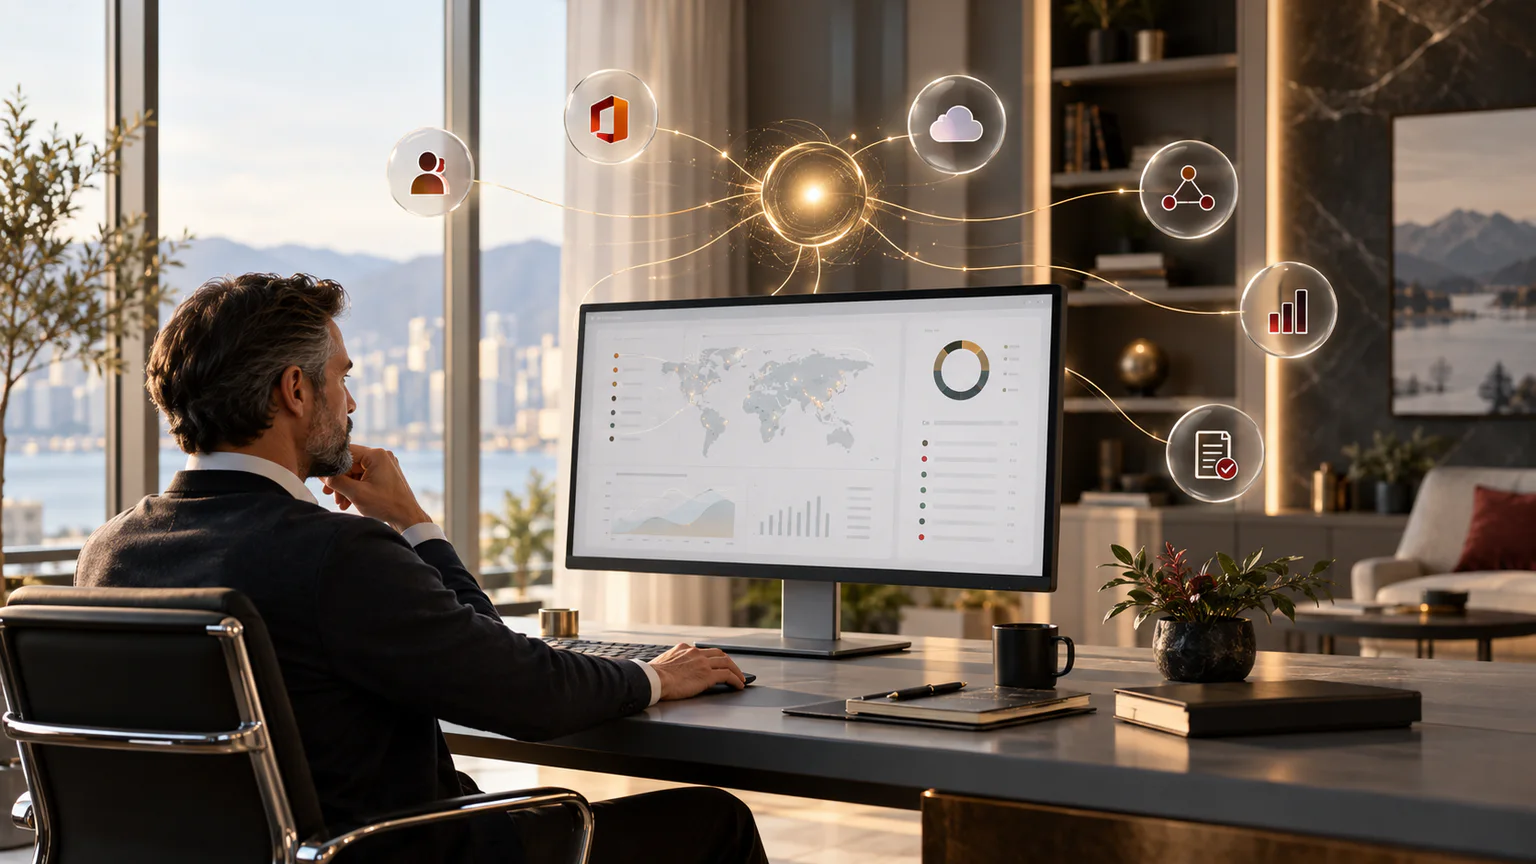
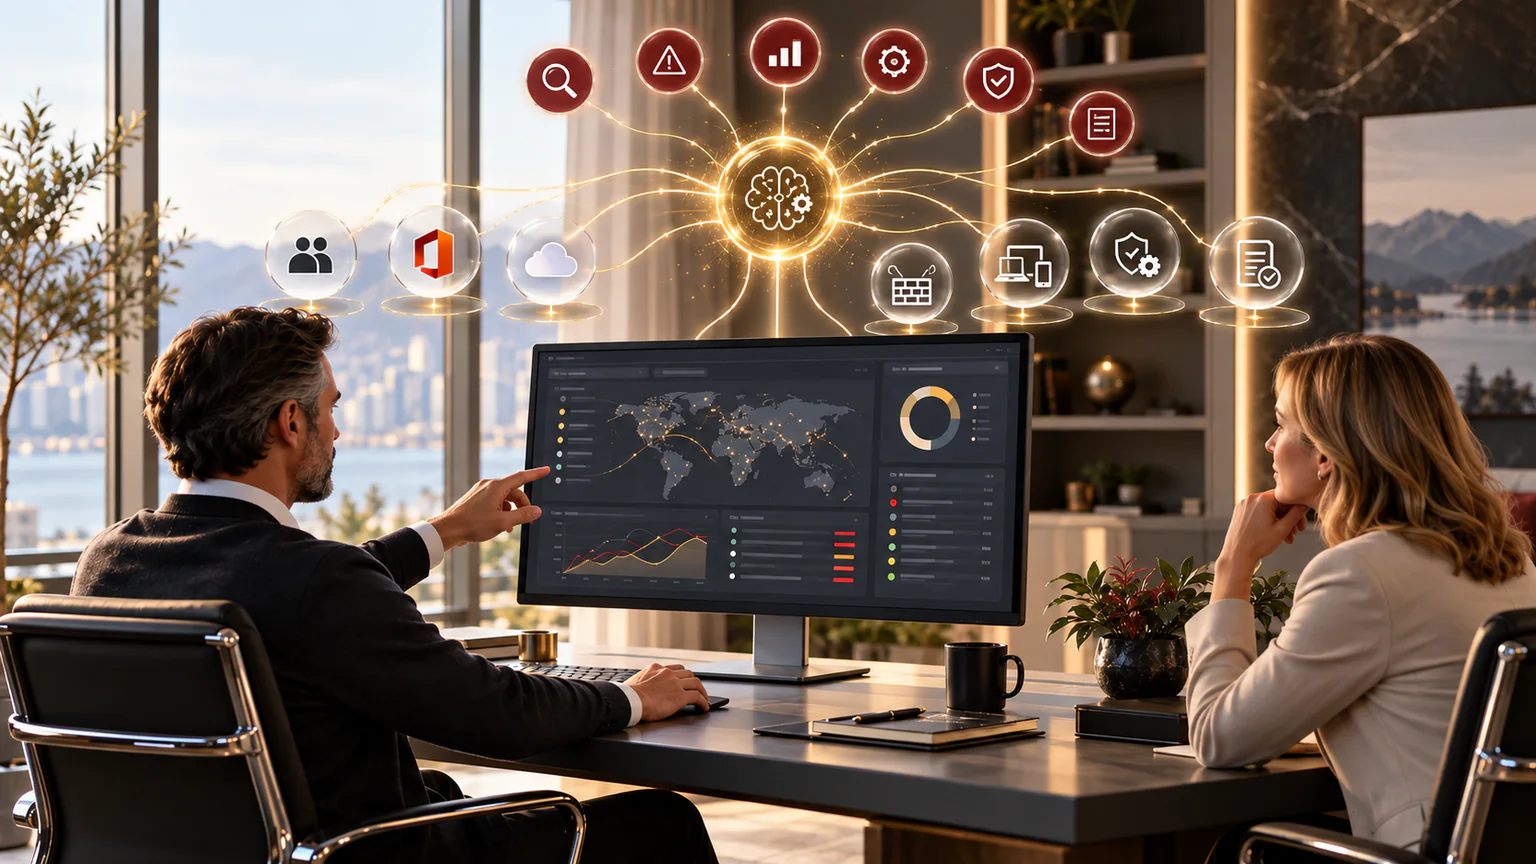
Clarify agentic infrastructure management

diff --git a/src/i18n/ar.ts b/src/i18n/ar.ts
@@ -804,10 +804,10 @@ export const ar: Dictionary = {
     intro:
       "براين فورت للأمن السيبراني شركة استشارات كندية تأسست على قناعة بسيطة: الأمن القوي يجب أن يسرّع الأعمال لا أن يبطئها.",
     teamImageAlt:
-      "قائد أعمال تدعمه منظومة أمن عامل مركزية تنسق مهام الهوية والسحابة والشبكة والتحليل والامتثال.",
-    agenticImageTitle: "أمن عامل يعمل من أجلك",
+      "مستشار كبير من براين فورت يدير هويات العميل وMicrosoft 365 والسحابة والشبكة والأجهزة والامتثال عبر منصة ذكاء اصطناعي عامل مركزية بينما يراجع العميل النتائج.",
+    agenticImageTitle: "ندير بنيتكم التحتية بالذكاء الاصطناعي العامل",
     agenticImageBody:
-      "تحلل عوامل متخصصة بيئتكم باستمرار، وتنسق النتائج، وتساعد مستشارينا الكبار على تحويل الإشارات إلى إجراءات عملية.",
+      "تراقب عوامل براين فورت المتخصصة بيئتكم وتنسقها باستمرار، فيما يشرف مستشارونا الكبار على القرارات ويحولون النتائج إلى إجراءات آمنة وعملية.",
     missionTitle: "رسالتنا",
     mission:
       "جعل الأمن السيبراني بمستوى المؤسسات الكبرى متاحاً وقابلاً للتنفيذ للمؤسسات من كل الأحجام — بالجمع بين الخبرة الرفيعة والكفاءة المدعومة بالذكاء الاصطناعي.",

diff --git a/src/i18n/fr.ts b/src/i18n/fr.ts
@@ -826,10 +826,10 @@ export const fr: Dictionary = {
     intro:
       "BrainFort Sécurité Inc. est une firme canadienne de conseil en cybersécurité fondée sur une conviction simple : une sécurité solide doit accélérer l'entreprise, pas la ralentir.",
     teamImageAlt:
-      "Un dirigeant soutenu par un système de sécurité agentique central qui coordonne les identités, le nuage, le réseau, l'analyse et la conformité.",
-    agenticImageTitle: "Une sécurité agentique qui travaille pour vous",
+      "Un consultant senior de BrainFort gère les identités, Microsoft 365, le nuage, le réseau, les terminaux et la conformité du client au moyen d'une plateforme d'IA agentique centrale, sous le regard du client.",
+    agenticImageTitle: "Nous gérons votre infrastructure grâce à l'IA agentique",
     agenticImageBody:
-      "Des agents spécialisés analysent continuellement votre environnement, coordonnent les constats et aident nos consultants seniors à transformer les signaux en actions.",
+      "Les agents spécialisés de BrainFort surveillent et coordonnent continuellement votre environnement. Nos consultants seniors supervisent les décisions et transforment les constats en actions sûres et concrètes.",
     missionTitle: "Notre mission",
     mission:
       "Rendre la cybersécurité de calibre entreprise accessible et actionnable pour les organisations de toutes tailles — en combinant expertise de haut niveau et efficacité propulsée par l'IA.",

diff --git a/src/i18n/en.ts b/src/i18n/en.ts
@@ -805,10 +805,10 @@ export const en = {
     intro:
       "BrainFort Security Inc. is a Canadian cybersecurity consulting firm founded on a simple conviction: strong security should accelerate a business, not slow it down.",
     teamImageAlt:
-      "A business leader supported by a central agentic security system coordinating identity, cloud, network, analytics, and compliance tasks.",
-    agenticImageTitle: "Agentic security working for you",
+      "A BrainFort senior consultant managing a client's identity, Microsoft 365, cloud, network, endpoints, and compliance through a central agentic AI platform while the client reviews the results.",
+    agenticImageTitle: "We manage your infrastructure with agentic AI",
     agenticImageBody:
-      "Specialized agents continuously analyze your environment, coordinate findings, and help our senior consultants turn signals into action.",
+      "BrainFort's specialized agents continuously monitor and coordinate your environment, while our senior consultants supervise decisions and turn findings into safe, practical action.",
     missionTitle: "Our Mission",
     mission:
       "To make enterprise-grade cybersecurity accessible and actionable for organizations of every size — combining senior expertise with AI-powered efficiency.",
